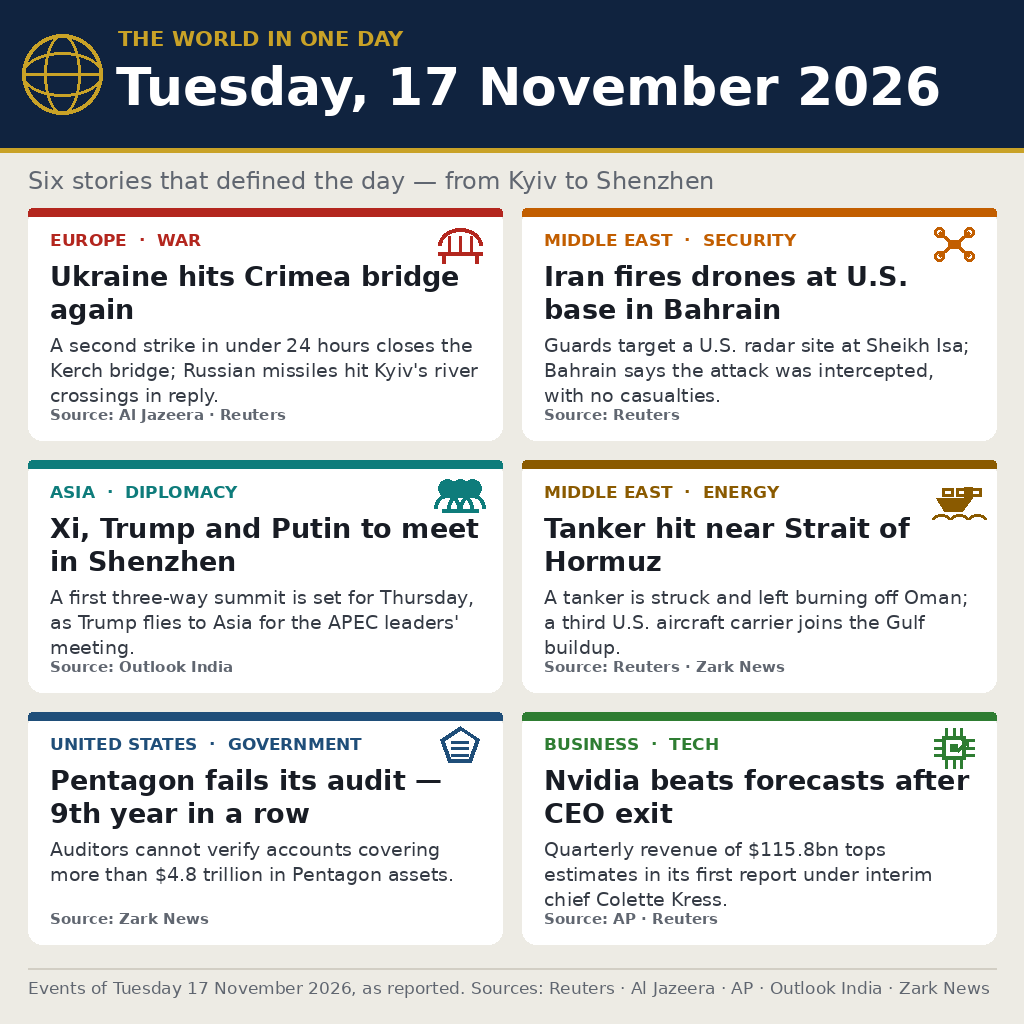
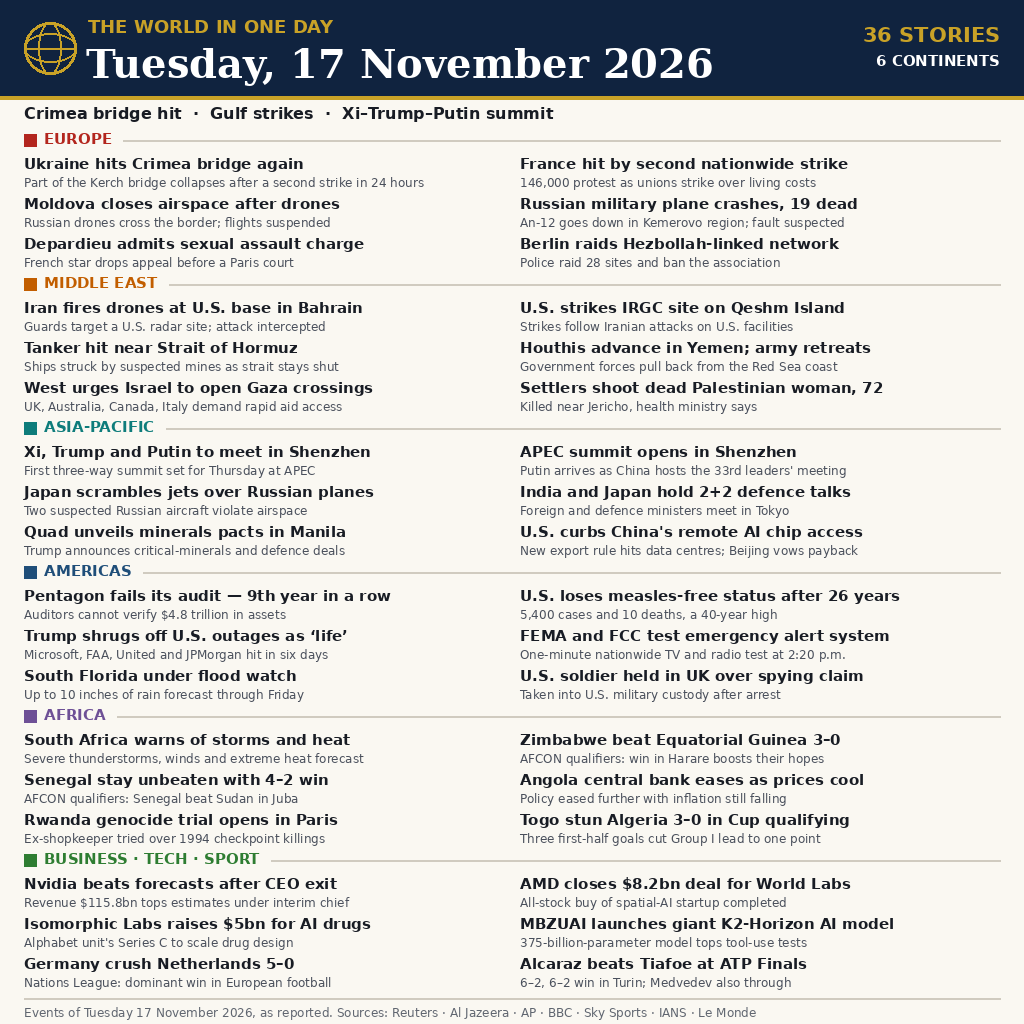
Rebuild entry image with 36 stories (round 2)

Changed region(s): [[0.0, 0.0, 1.0, 1.0]]

diff --git a/build_image.py b/build_image.py
@@ -1,0 +1,208 @@
+#!/usr/bin/env python3
+"""Build entry.png v2 for the make.fun news-image-20261117 bounty.
+
+Draws a one-page newspaper-style front page of Tuesday 17 November
+2026 world news with Pillow: 36 stories across 6 sections, grouped by
+region/field. Purely a build tool: it is NOT part of the entry
+repository (the entry ships only main.py, entry.png, LICENSE and
+README.md). Run: python3 build_image.py  -> writes entry.png next to it.
+"""
+from PIL import Image, ImageDraw, ImageFont
+
+W, H = 1024, 1024
+OUT = "entry.png"
+
+FONT_BOLD = "/usr/share/fonts/truetype/dejavu/DejaVuSans-Bold.ttf"
+FONT_REG = "/usr/share/fonts/truetype/dejavu/DejaVuSans.ttf"
+FONT_SERIF = "/usr/share/fonts/truetype/dejavu/DejaVuSerif-Bold.ttf"
+
+NAVY = (16, 35, 63)
+GOLD = (201, 162, 39)
+PAPER = (250, 248, 242)
+INK = (24, 28, 36)
+MUTED = (96, 102, 112)
+RULE = (208, 203, 192)
+
+# 36 stories: (headline, one-line fact). All reported on 17 Nov 2026.
+SECTIONS = [
+    ("EUROPE", (179, 38, 30), [
+        ("Ukraine hits Crimea bridge again",
+         "Part of the Kerch bridge collapses after a second strike in 24 hours"),
+        ("France hit by second nationwide strike",
+         "146,000 protest as unions strike over living costs"),
+        ("Moldova closes airspace after drones",
+         "Russian drones cross the border; flights suspended"),
+        ("Russian military plane crashes, 19 dead",
+         "An-12 goes down in Kemerovo region; fault suspected"),
+        ("Depardieu admits sexual assault charge",
+         "French star drops appeal before a Paris court"),
+        ("Berlin raids Hezbollah-linked network",
+         "Police raid 28 sites and ban the association"),
+    ]),
+    ("MIDDLE EAST", (194, 94, 0), [
+        ("Iran fires drones at U.S. base in Bahrain",
+         "Guards target a U.S. radar site; attack intercepted"),
+        ("U.S. strikes IRGC site on Qeshm Island",
+         "Strikes follow Iranian attacks on U.S. facilities"),
+        ("Tanker hit near Strait of Hormuz",
+         "Ships struck by suspected mines as strait stays shut"),
+        ("Houthis advance in Yemen; army retreats",
+         "Government forces pull back from the Red Sea coast"),
+        ("West urges Israel to open Gaza crossings",
+         "UK, Australia, Canada, Italy demand rapid aid access"),
+        ("Settlers shoot dead Palestinian woman, 72",
+         "Killed near Jericho, health ministry says"),
+    ]),
+    ("ASIA-PACIFIC", (14, 124, 123), [
+        ("Xi, Trump and Putin to meet in Shenzhen",
+         "First three-way summit set for Thursday at APEC"),
+        ("APEC summit opens in Shenzhen",
+         "Putin arrives as China hosts the 33rd leaders' meeting"),
+        ("Japan scrambles jets over Russian planes",
+         "Two suspected Russian aircraft violate airspace"),
+        ("India and Japan hold 2+2 defence talks",
+         "Foreign and defence ministers meet in Tokyo"),
+        ("Quad unveils minerals pacts in Manila",
+         "Trump announces critical-minerals and defence deals"),
+        ("U.S. curbs China's remote AI chip access",
+         "New export rule hits data centres; Beijing vows payback"),
+    ]),
+    ("AMERICAS", (31, 78, 121), [
+        ("Pentagon fails its audit \u2014 9th year in a row",
+         "Auditors cannot verify $4.8 trillion in assets"),
+        ("U.S. loses measles-free status after 26 years",
+         "5,400 cases and 10 deaths, a 40-year high"),
+        ("Trump shrugs off U.S. outages as \u2018life\u2019",
+         "Microsoft, FAA, United and JPMorgan hit in six days"),
+        ("FEMA and FCC test emergency alert system",
+         "One-minute nationwide TV and radio test at 2:20 p.m."),
+        ("South Florida under flood watch",
+         "Up to 10 inches of rain forecast through Friday"),
+        ("U.S. soldier held in UK over spying claim",
+         "Taken into U.S. military custody after arrest"),
+    ]),
+    ("AFRICA", (110, 80, 150), [
+        ("South Africa warns of storms and heat",
+         "Severe thunderstorms, winds and extreme heat forecast"),
+        ("Zimbabwe beat Equatorial Guinea 3\u20130",
+         "AFCON qualifiers: win in Harare boosts their hopes"),
+        ("Senegal stay unbeaten with 4\u20132 win",
+         "AFCON qualifiers: Senegal beat Sudan in Juba"),
+        ("Angola central bank eases as prices cool",
+         "Policy eased further with inflation still falling"),
+        ("Rwanda genocide trial opens in Paris",
+         "Ex-shopkeeper tried over 1994 checkpoint killings"),
+        ("Togo stun Algeria 3\u20130 in Cup qualifying",
+         "Three first-half goals cut Group I lead to one point"),
+    ]),
+    ("BUSINESS \u00b7 TECH \u00b7 SPORT", (46, 125, 50), [
+        ("Nvidia beats forecasts after CEO exit",
+         "Revenue $115.8bn tops estimates under interim chief"),
+        ("AMD closes $8.2bn deal for World Labs",
+         "All-stock buy of spatial-AI startup completed"),
+        ("Isomorphic Labs raises $5bn for AI drugs",
+         "Alphabet unit's Series C to scale drug design"),
+        ("MBZUAI launches giant K2-Horizon AI model",
+         "375-billion-parameter model tops tool-use tests"),
+        ("Germany crush Netherlands 5\u20130",
+         "Nations League: dominant win in European football"),
+        ("Alcaraz beats Tiafoe at ATP Finals",
+         "6\u20132, 6\u20132 win in Turin; Medvedev also through"),
+    ]),
+]
+
+
+def font(path, size):
+    return ImageFont.truetype(path, size)
+
+
+def fit_one_line(d, text, fnt, max_w):
+    """Truncate to a single line with an ellipsis if it is too wide."""
+    if d.textlength(text, font=fnt) <= max_w:
+        return text
+    ell = "\u2026"
+    lo, hi = 0, len(text)
+    while lo < hi:
+        mid = (lo + hi + 1) // 2
+        if d.textlength(text[:mid] + ell, font=fnt) <= max_w:
+            lo = mid
+        else:
+            hi = mid - 1
+    return text[:lo].rstrip() + ell
+
+
+def draw_globe(d, cx, cy, r, color):
+    d.ellipse([cx - r, cy - r, cx + r, cy + r], outline=color, width=3)
+    d.ellipse([cx - r * 0.45, cy - r, cx + r * 0.45, cy + r],
+              outline=color, width=2)
+    d.line([cx - r, cy, cx + r, cy], fill=color, width=2)
+    d.arc([cx - r, cy - r * 0.55, cx + r, cy + r * 0.55],
+          start=200, end=340, fill=color, width=2)
+    d.arc([cx - r, cy - r * 0.55, cx + r, cy + r * 0.55],
+          start=20, end=160, fill=color, width=2)
+
+
+def main():
+    img = Image.new("RGB", (W, H), PAPER)
+    d = ImageDraw.Draw(img)
+
+    # ---- masthead ----
+    d.rectangle([0, 0, W, 96], fill=NAVY)
+    d.rectangle([0, 96, W, 99], fill=GOLD)
+    draw_globe(d, 50, 48, 26, GOLD)
+    d.text((88, 16), "THE WORLD IN ONE DAY",
+           font=font(FONT_BOLD, 18), fill=GOLD)
+    d.text((86, 40), "Tuesday, 17 November 2026",
+           font=font(FONT_SERIF, 40), fill=(255, 255, 255))
+    f_side = font(FONT_BOLD, 21)
+    d.text((1000 - d.textlength("36 STORIES", font=f_side), 22),
+           "36 STORIES", font=f_side, fill=GOLD)
+    f_side2 = font(FONT_BOLD, 15)
+    d.text((1000 - d.textlength("6 CONTINENTS", font=f_side2), 52),
+           "6 CONTINENTS", font=f_side2, fill=(255, 255, 255))
+
+    # ---- subhead: the day's three biggest stories ----
+    d.text((24, 104),
+           "Crimea bridge hit  \u00b7  Gulf strikes  \u00b7  Xi\u2013Trump\u2013Putin summit",
+           font=font(FONT_BOLD, 16), fill=INK)
+
+    # ---- sections ----
+    f_sec = font(FONT_BOLD, 15)
+    f_head = font(FONT_BOLD, 15)
+    f_sub = font(FONT_REG, 12)
+    margin, gutter = 24, 16
+    col_w = (W - 2 * margin - gutter) // 2
+    y = 128
+    for name, color, stories in SECTIONS:
+        # section header: colour chip + name + rule
+        d.rectangle([margin, y + 6, margin + 12, y + 18], fill=color)
+        d.text((margin + 20, y + 2), name, font=f_sec, fill=color)
+        name_w = d.textlength(name, font=f_sec)
+        rule_x = margin + 20 + name_w + 12
+        d.line([rule_x, y + 12, W - margin, y + 12], fill=RULE, width=2)
+        gy = y + 26
+        for i, (head, sub) in enumerate(stories):
+            col, row = i % 2, i // 2
+            x = margin + col * (col_w + gutter)
+            cy = gy + row * 40
+            d.text((x, cy + 1),
+                   fit_one_line(d, head, f_head, col_w),
+                   font=f_head, fill=INK)
+            d.text((x, cy + 21),
+                   fit_one_line(d, sub, f_sub, col_w),
+                   font=f_sub, fill=(74, 80, 92))
+        y += 144
+
+    # ---- footer ----
+    d.line([24, 998, W - 24, 998], fill=RULE, width=2)
+    d.text((24, 1005),
+           "Events of Tuesday 17 November 2026, as reported. "
+           "Sources: Reuters \u00b7 Al Jazeera \u00b7 AP \u00b7 BBC \u00b7 Sky Sports \u00b7 IANS \u00b7 Le Monde",
+           font=font(FONT_REG, 12), fill=MUTED)
+
+    img.save(OUT, "PNG")
+    print("wrote", OUT, img.size)
+
+
+if __name__ == "__main__":
+    main()

diff --git a/main.py b/main.py
@@ -1,10 +1,11 @@
 #!/usr/bin/env python3
-"""Entry program for the news-image-20261117 bounty.
+"""Entry program for the news-image-20261117 bounty (round 2).
 
-Copies the pre-drawn entry.png (a one-page infographic summing up
-Tuesday 17 November 2026 world news) to the output directory that
-make.fun reads. Standard library only, no network, deterministic:
-the output bytes are always identical to the shipped entry.png.
+Copies the pre-drawn entry.png (a one-page front page summing up
+Tuesday 17 November 2026 world news in 36 stories) to the output
+directory that make.fun reads. Standard library only, no network,
+deterministic: the output bytes are always identical to the shipped
+entry.png.
 """
 import os
 from pathlib import Path
@@ -22,7 +23,11 @@ def main():
         raise SystemExit("entry.png is not a PNG file")
     out_dir = Path(os.environ.get("MAKEFUN_OUTPUT_DIR", "out"))
     out_dir.mkdir(parents=True, exist_ok=True)
-    (out_dir / "entry.png").write_bytes(data)
+    out_path = out_dir / "entry.png"
+    out_path.write_bytes(data)
+    # Confirm the copy is byte-identical to the shipped image.
+    if out_path.read_bytes() != data:
+        raise SystemExit("output entry.png does not match the shipped image")
 
 
 if __name__ == "__main__":
